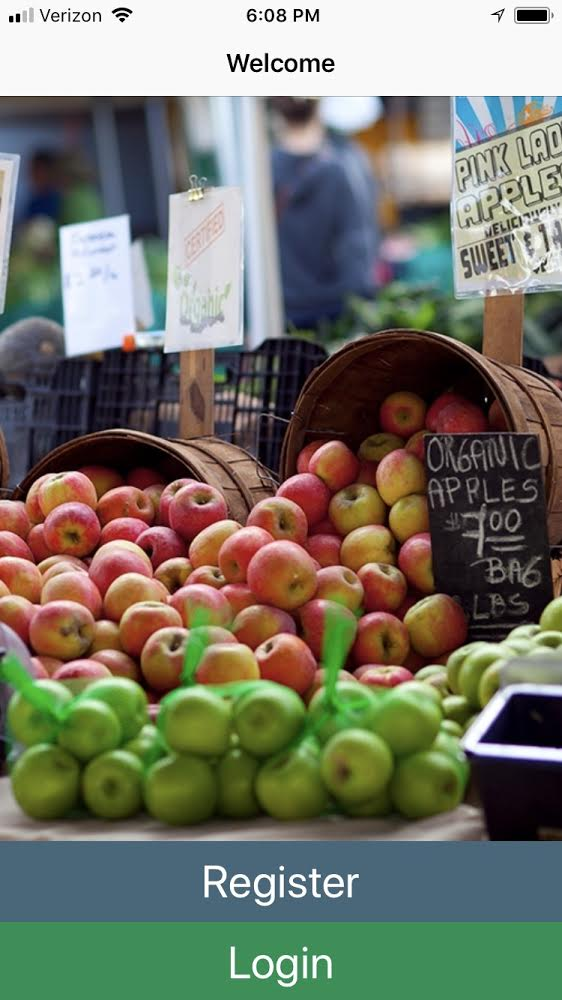
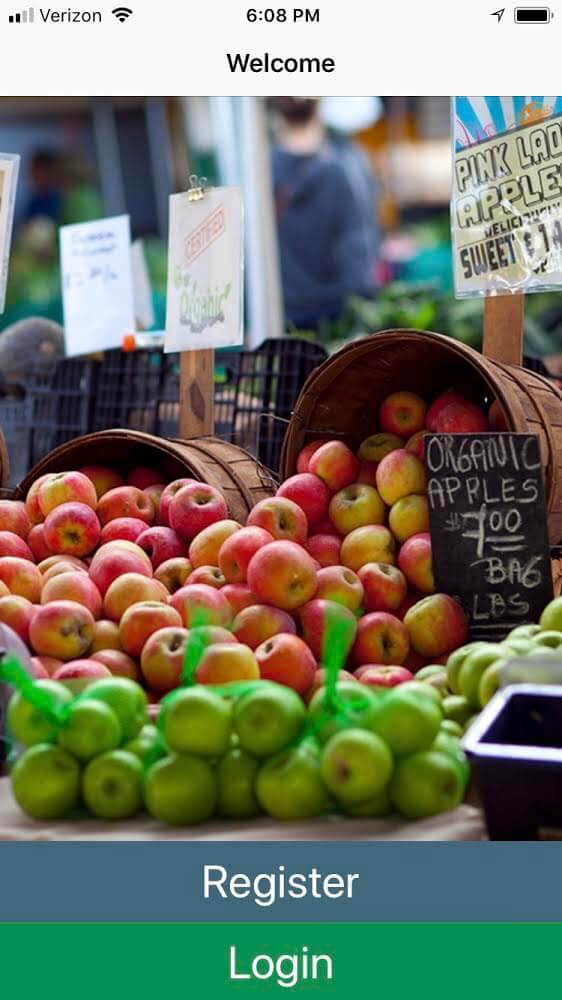
updated image files to reduce load time

diff --git a/Main Template/index.html b/Main Template/index.html
@@ -11,7 +11,17 @@
     <meta name="description" content="Peter Gustafson's Portfolio">
 
     <!-- Bootstrap CSS -->
-    <link rel="stylesheet" type="text/css" href="css/bootstrap.min.css">
+    <!-- <link rel="stylesheet" type="text/css" href="css/bootstrap.min.css"> -->
+
+    <!--Bootstrap 3.3.7 CDN-->
+    <!-- Latest compiled and minified CSS -->
+<link rel="stylesheet" href="https://maxcdn.bootstrapcdn.com/bootstrap/3.3.7/css/bootstrap.min.css" integrity="sha384-BVYiiSIFeK1dGmJRAkycuHAHRg32OmUcww7on3RYdg4Va+PmSTsz/K68vbdEjh4u" crossorigin="anonymous">
+
+<!-- Optional theme -->
+<link rel="stylesheet" href="https://maxcdn.bootstrapcdn.com/bootstrap/3.3.7/css/bootstrap-theme.min.css" integrity="sha384-rHyoN1iRsVXV4nD0JutlnGaslCJuC7uwjduW9SVrLvRYooPp2bWYgmgJQIXwl/Sp" crossorigin="anonymous">
+
+<!-- Latest compiled and minified JavaScript -->
+<script src="https://maxcdn.bootstrapcdn.com/bootstrap/3.3.7/js/bootstrap.min.js" integrity="sha384-Tc5IQib027qvyjSMfHjOMaLkfuWVxZxUPnCJA7l2mCWNIpG9mGCD8wGNIcPD7Txa" crossorigin="anonymous"></script>
 
 	<!-- Magnific Popup core CSS file -->
 	<link rel="stylesheet" href="css/magnific-popup.css">
@@ -29,12 +39,12 @@
     <link href="https://fonts.googleapis.com/css?family=Lato:400,400i,700,700i" rel="stylesheet">
 
 	<!-- Favicon -->
-	<link rel="icon" href="img/Peter_Gustafson.jpg">
+	<link rel="icon" href="img/peter_gustafson200x200.jpg">
 
 	<!-- Touch Icons - iOS and Android 2.1+ -->
- 	<link rel="apple-touch-icon" href="img/Peter_Gustafson.jpg" alt="Peter_Gustafson">
-	<link rel="apple-touch-icon" sizes="72x72" href="img/Peter_Gustafson.jpg" alt="Peter_Gustafson"/>
-	<link rel="apple-touch-icon" sizes="114x114" href="img/Peter_Gustafson.jpg" alt="Peter_Gustafson"/>
+ 	<link rel="apple-touch-icon" href="img/peter_gustafson200x200.jpg" alt="Peter_Gustafson">
+	<link rel="apple-touch-icon" sizes="72x72" href="img/peter_gustafson200x200.jpg" alt="Peter_Gustafson"/>
+	<link rel="apple-touch-icon" sizes="114x114" href="img/peter_gustafson200x200.jpg" alt="Peter_Gustafson"/>
 
     <!-- HTML5 shim and Respond.js for IE8 support of HTML5 elements and media queries -->
     <!-- WARNING: Respond.js doesn't work if you view the page via file:// -->
@@ -111,7 +121,7 @@
         <div class="page-table">
             <div class="table-cell text-center">
                 <div class="avatar-hero">
-                    <img src="img/Peter_Gustafson.jpg" alt="Peter_Gustafson">
+                    <img src="img/peter_gustafson400x400.jpg" alt="Peter_Gustafson">
                 </div>
                 <h1>Hi, I'm Peter Gustafson</h1>
                 <h2 class="typer-title">I'm a web and mobile developer</h2>
@@ -366,7 +376,7 @@
                 <div class="col-sm-6 col-md-4 filtr-item design web">
                     <div class="single-work mb-30">
                         <a href="img/flourish.png" class="popup-link">
-                            <img class="effect" src="img/flourish.png" alt="work-1" width="770" height="700">
+                            <img class="effect" src="img/flourish.jpg" alt="work-1" width="770" height="700">
                             <div class="work-overlay effect">
                                 <h3>Flourish</h3>
                                 <p>WEB DEVELOPMENT</p>
@@ -378,7 +388,7 @@
                 <div class="col-sm-6 col-md-4 filtr-item design web">
                     <div class="single-work mb-30">
                         <a href="img/nwcodingbootcampnetwork.png" class="popup-link">
-                            <img class="effect" src="img/nwcodingbootcampnetwork.png" alt="work-2" width="770" height="700">
+                            <img class="effect" src="img/nwcodingbootcampnetwork.jpg" alt="work-2" width="770" height="700">
                             <div class="work-overlay effect">
                                 <h3>Northwestern Coding Bootcamp Network</h3>
                                 <p>WEB DEVELOPMENT</p>
@@ -390,7 +400,7 @@
                 <div class="col-sm-6 col-md-4 filtr-item design web">
                     <div class="single-work mb-30">
                         <a href="img/giphysearch.png" class="popup-link">
-                            <img class="effect" src="img/giphysearch.png" alt="work-3" width="770" height="700">
+                            <img class="effect" src="img/giphysearch.jpg" alt="work-3" width="770" height="700">
                             <div class="work-overlay effect">
                                 <h3>Giphy Search</h3>
                                 <p>WEB DEVELOPMENT</p>
@@ -425,7 +435,7 @@
 
                 <div class="col-sm-6 col-md-4 filtr-item design mobile">
                     <div class="single-work mb-30">
-                        <a href="img/bongoroom.png" class="popup-link">
+                        <a href="img/bongoroom.jpg" class="popup-link">
                             <img class="effect" src="img/bongoroom.png" alt="work-6" width="770" height="700">
                             <div class="work-overlay effect">
                                 <h3>Bongo Room Mobile Ordering Kiosk</h3>
